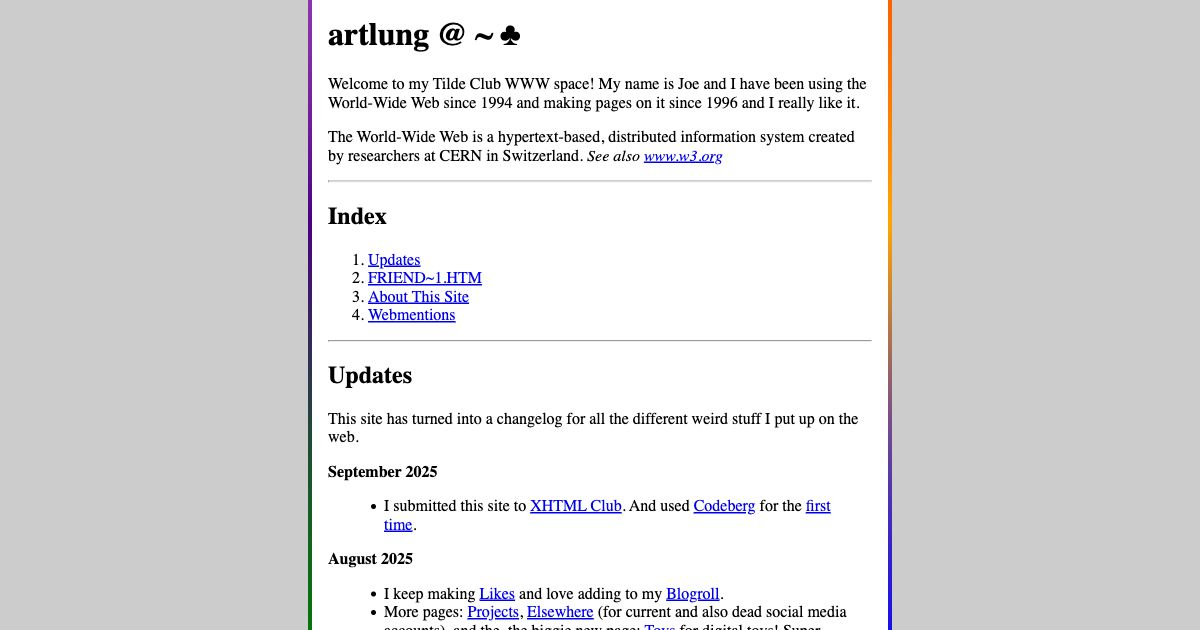
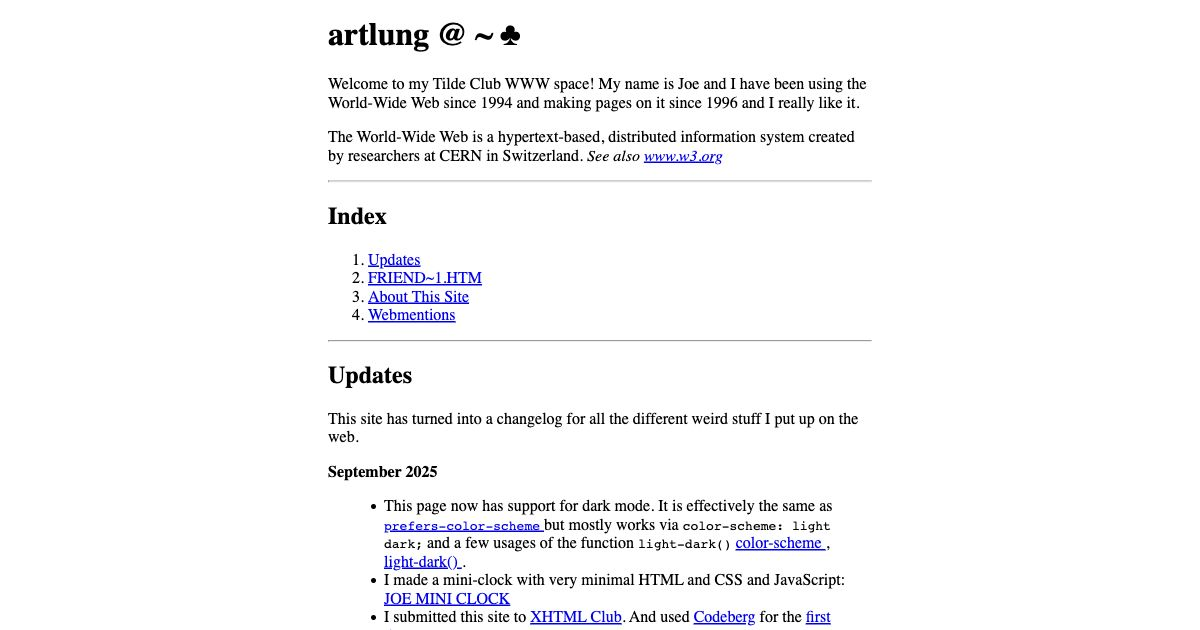
SEPTEMBER CHANGES TIME

diff --git a/public_html/tilde.css b/public_html/tilde.css
@@ -1,1 +1,1 @@
-html{height:100%}body{max-width:72ch;box-sizing:border-box;margin:0 auto;padding:2ch;background:linear-gradient(#fff, #fff) 50% 50%/72ch 200% repeat-y,conic-gradient(from var(--from), red, orange, blue, green, indigo, violet) 50% 50%/73ch 100vh no-repeat #ccc;background-attachment:fixed;min-height:100%;transition:background .5s ease-in-out;animation:swirl 6s infinite;--from: 45deg}body>p:last-child{padding:0 0 3ch 0}dt{font-weight:bold}dd{margin:1em}form[method=post]{margin:0;display:grid;gap:1rem;padding:1rem;background:#ffffe0;border:2px solid #ff0;font-family:sans-serif}form[method=post] *{margin:0;padding:0;display:block;width:100%;font-family:sans-serif;font-size:1rem}form[method=post] input{padding:.5rem}form:has(h2) h2>b{color:color-mix(in srgb, currentColor 80%, yellowgreen);background:#9acd32;aspect-ratio:1;border-radius:50%;display:inline-flex;justify-content:center;gap:2px;align-items:center;padding:2px;font-weight:normal;font-size:1.5rem;position:relative;border:1px solid}form:has(h2) h2>i{font-size:1rem;font-weight:normal;font-family:system-ui,sans-serif;display:inline-block;max-height:0;overflow:hidden;transition:max-height .3s linear}form:has(h2) form:has(h2) h2>i{padding:.5lh;background:#9acd32;line-height:1.4rem;margin:1lh 0}form:has(h2):has(input:checked) h2>i{margin:1lh 0 0;max-height:10lh;border:1px solid;background:#9acd32;padding:1lh}form:has(h2):has(input:checked) h2>b::after{content:"";position:absolute;display:block;height:1lh;overflow:hidden;background:#9acd32;bottom:-1lh;border-inline:1px solid;width:.2rem}@keyframes swirl{0%{--from: 0deg}50%{--from: 350deg}100%{--from: 0deg}}h2:has(+dl+form){border:3px double orange;background:bisque;padding:.1rem .5rem;line-height:1;color:darkred;font-family:sans-serif}dl:has(+form){display:grid;font-family:sans-serif;gap:.33rem;margin:0 0 1rem .75rem}dl:has(+form) dt{font-weight:normal;color:darkred}dl:has(+form) dd{margin:0 0 0 1rem;display:flex;gap:1rem;justify-content:start;align-items:center}dl:has(+form) dd img{opacity:.9;width:1.5rem;aspect-ratio:1;border-radius:50%}a:has(img[ismap]){display:block;width:min-content}a:has(img[ismap]) img{display:block;width:549px;height:60px}
+html{height:100%;color-scheme:light dark}body{max-width:72ch;box-sizing:border-box;margin:0 auto;padding:2ch;min-height:100%;transition:background .5s ease-in-out;animation:swirl 6s infinite;--from: 45deg;background:linear-gradient(var(--baseColor), var(--baseColor)) 50% 50%/72ch 200% repeat-y,conic-gradient(from var(--from), red, orange, blue, green, indigo, violet) 50% 50%/73ch 100vh no-repeat var(--leastColor);background-attachment:fixed;--baseColor: light-dark(#fff, #191919);--leastColor: light-dark(#fee9ec,rebeccapurple)}body>p:last-child{padding:0 0 3ch 0}dt{font-weight:bold}dd{margin:1em}form[method=post]{margin:0;display:grid;gap:1rem;padding:1rem;background:#ffffe0;border:2px solid #ff0;font-family:system-ui,sans-serif;color:#666}form[method=post] *{margin:0;padding:0;display:block;width:100%;font-family:sans-serif;font-size:1rem}form[method=post] input{padding:.5rem}form:has(h2) h2>b{color:color-mix(in srgb, currentColor 80%, yellowgreen);background:#9acd32;aspect-ratio:1;border-radius:50%;display:inline-flex;justify-content:center;gap:2px;align-items:center;padding:2px;font-weight:normal;font-size:1.5rem;position:relative;border:1px solid}form:has(h2) h2>i{font-size:1rem;font-weight:normal;font-family:system-ui,sans-serif;display:inline-block;max-height:0;overflow:hidden;transition:max-height .3s linear}form:has(h2) form:has(h2) h2>i{padding:.5lh;background:#9acd32;line-height:1.4rem;margin:1lh 0}form:has(h2):has(input:checked) h2>i{margin:1lh 0 0;max-height:10lh;border:1px solid;background:#9acd32;padding:1lh}form:has(h2):has(input:checked) h2>b::after{content:"";position:absolute;display:block;height:1lh;overflow:hidden;background:#9acd32;bottom:-1lh;border-inline:1px solid;width:.2rem}@keyframes swirl{0%{--from: 0deg}50%{--from: 350deg}100%{--from: 0deg}}h2:has(+dl+form){border:3px double orange;background:bisque;padding:.1rem .5rem;line-height:1;color:#fa7b7b;font-family:sans-serif}dl:has(+form){display:grid;font-family:sans-serif;gap:.33rem;margin:0 0 1rem .75rem}dl:has(+form) dt{font-weight:normal;color:#fa7b7b}dl:has(+form) dd{margin:0 0 0 1rem;display:flex;gap:1rem;justify-content:start;align-items:center}dl:has(+form) dd img{opacity:.9;width:1.5rem;aspect-ratio:1;border-radius:50%}a:has(img[ismap]){display:block;width:min-content}a:has(img[ismap]) img{display:block;width:549px;height:60px}

diff --git a/public_html/tilde.scss b/public_html/tilde.scss
@@ -1,5 +1,6 @@
 html {
-  height: 100%
+  height: 100%;
+  color-scheme: light dark;
 }
 
 body {
@@ -7,12 +8,14 @@ body {
   box-sizing: border-box;
   margin: 0 auto;
   padding: 2ch;
-  background: linear-gradient(#fff, #fff) 50% 50% / 72ch 200% repeat-y, conic-gradient(from var(--from), red, orange, blue, green, indigo, violet) 50% 50% / 73ch 100vh no-repeat #ccc;
-  background-attachment: fixed;
   min-height: 100%;
   transition: background 0.5s ease-in-out;
   animation: swirl 6s infinite;
   --from: 45deg;
+  background: linear-gradient(var(--baseColor), var(--baseColor)) 50% 50%/72ch 200% repeat-y,conic-gradient(from var(--from), red, orange, blue, green, indigo, violet) 50% 50%/73ch 100vh no-repeat var(--leastColor);
+  background-attachment: fixed;
+  --baseColor: light-dark(#fff, #191919);
+  --leastColor: light-dark(#fee9ec,rebeccapurple);
 
   > p:last-child {
     padding: 0 0 3ch 0;
@@ -35,7 +38,9 @@ form[method="post"] {
   padding: 1rem;
   background: lightyellow;
   border: 2px solid yellow;
-  font-family: sans-serif;
+  font-family: system-ui, sans-serif;
+  color: #666;
+
   * {
     margin: 0;
     padding: 0;
@@ -142,7 +147,7 @@ h2:has(+ dl + form) {
   background: bisque;
   padding: 0.1rem 0.5rem;
   line-height: 1;
-  color: darkred;
+  color: #fa7b7b;
   font-family: sans-serif;
 }
 
@@ -154,9 +159,8 @@ dl:has(+ form) {
   margin: 0 0 1rem 0.75rem;
 
   dt {
-    /* background: red; */
     font-weight: normal;
-    color: darkred;
+    color: #fa7b7b;
   }
   dd {
     margin: 0 0 0 1rem;
@@ -183,4 +187,3 @@ a:has(img[ismap]) {
     height: 60px;
   }
 }
-

diff --git a/public_html/miniclock/m.css b/public_html/miniclock/m.css
@@ -1,0 +1,1 @@
+body{*{max-width:99q;margin:auto}}p{aspect-ratio:1;border-radius:50%;background:conic-gradient(from var(--m),#000 1%,#0000 0),conic-gradient(from var(--h),#000 1%,#0000 0)content-box,conic-gradient(from var(--s),#f00 1%,#0000 0);border:solid;padding:1cm}

diff --git a/public_html/miniclock/m.js b/public_html/miniclock/m.js
@@ -1,0 +1,1 @@
+setInterval(() => {p = document.querySelector('p').style;d = new Date();p.setProperty('--h', d.getHours()*30+'deg');p.setProperty('--m', d.getMinutes()*6+'deg');p.setProperty('--s', d.getSeconds()*6+'deg');}, 1000)

diff --git a/public_html/index.php b/public_html/index.php
@@ -30,7 +30,7 @@ www.w3.org</A></I></P>
     $text_fragments = [
       ['Webmentions', 'Updates'],
        ['little web pages.', 'FRIEND~1.HTM'],
-        ['THOMAS','About This Site'],
+        ['MATT','About This Site'],
         ['slash links!', 'Webmentions'],
     ];
 
@@ -67,6 +67,23 @@ www.w3.org</A></I></P>
     <DT>September 2025</DT>
     <DD>
         <UL>
+            <LI>
+                This page now has support for
+                <!--dark mode mdn-->
+                dark mode. It is effectively the same as
+                <A HREF="https://developer.mozilla.org/en-US/docs/Web/CSS/@media/prefers-color-scheme">
+                    <CODE>prefers-color-scheme</CODE>
+                </A>
+                but mostly works via <CODE><A HREF="https://developer.mozilla.org/en-US/docs/Web/CSS/color-scheme">
+                        color-scheme</A>: light dark;</CODE> and a few
+                usages of the function <A HREF="https://developer.mozilla.org/en-US/docs/Web/CSS/light-dark()">
+                    <CODE>light-dark()</CODE></A>. I don't offer a toggle. It works based on
+                your own system preference.
+            </LI>
+            <LI>
+                I made a mini-clock with very minimal HTML and CSS and JavaScript:
+                <a href="https://tilde.club/~artlung/miniclock/">JOE MINI CLOCK</a>
+            </LI>
             <LI>I submitted this site to <a href="https://xhtml.club/">XHTML Club</a>. And used <a href="https://codeberg.org/">Codeberg</a> for the <a href="https://codeberg.org/btxx/xhtml-club/pulls/1">first time</a>.</LI>
         </UL>
     </DD>
@@ -416,14 +433,14 @@ It's Comic-Con month. It ought to be fun! Rock on people!
   <HR>
 
 
-<?php require 'webmention.php'; ?>
+<?php require __DIR__ . '/webmention.php'; ?>
 
 
 <HR>
 
 <P><A href="https://validator.w3.org/check?uri=https://tilde.club/~artlung/"><IMG src="https://lab.artlung.com/html-2.0/valid_html.gif" alt="Checked - HTML 2.0"></A>
 
- <A href="https://validator.w3.org/check?uri=https://tilde.club/~artlung/"><IMG src="https://www.w3.org/Icons/valid-html20"></A>
+ <A href="https://validator.w3.org/check?uri=https://tilde.club/~artlung/"><IMG src="https://www.w3.org/Icons/valid-html20" ALT="VALID HTML 2.0"></A>
 
     <A href="https://artlung.com/"><img src="https://apps.artlung.com/logo-i-zer/88x31.php?c0=FECB65&amp;c1=447FB2" alt="ARTLUNG ❤ Joe Crawford"></A>
 
@@ -431,7 +448,7 @@ It's Comic-Con month. It ought to be fun! Rock on people!
 
 <P>
 
-  <A href="./tilde.map.php"><IMG src="https://tilde.club/~harper/webring.png" ismap></A>
+  <A href="./tilde.map.php"><IMG src="https://tilde.club/~harper/webring.png" ismap ALT="IndieWeb Webring"></A>
 
   <I>
 Click for the [

diff --git a/public_html/miniclock/miniclock.php b/public_html/miniclock/miniclock.php
@@ -1,0 +1,7 @@
+<title>mini clock</title>
+<style>@import 'm.css'</style>
+<pre>   ░  ░░   ░░
+   ░ ░  ░ ░  ░
+   ░ ░  ░ ░░░░
+░  ░ ░  ░ ░
+ ░░   ░░   ░░</pre><p><script src="m.js"></script>

diff --git a/public_html/miniclock/index.php b/public_html/miniclock/index.php
@@ -1,0 +1,3 @@
+<?php
+header('Link: <https://webmention.io/artlung.com/webmention>; rel="webmention"');
+require __DIR__ . '/miniclock.php';
